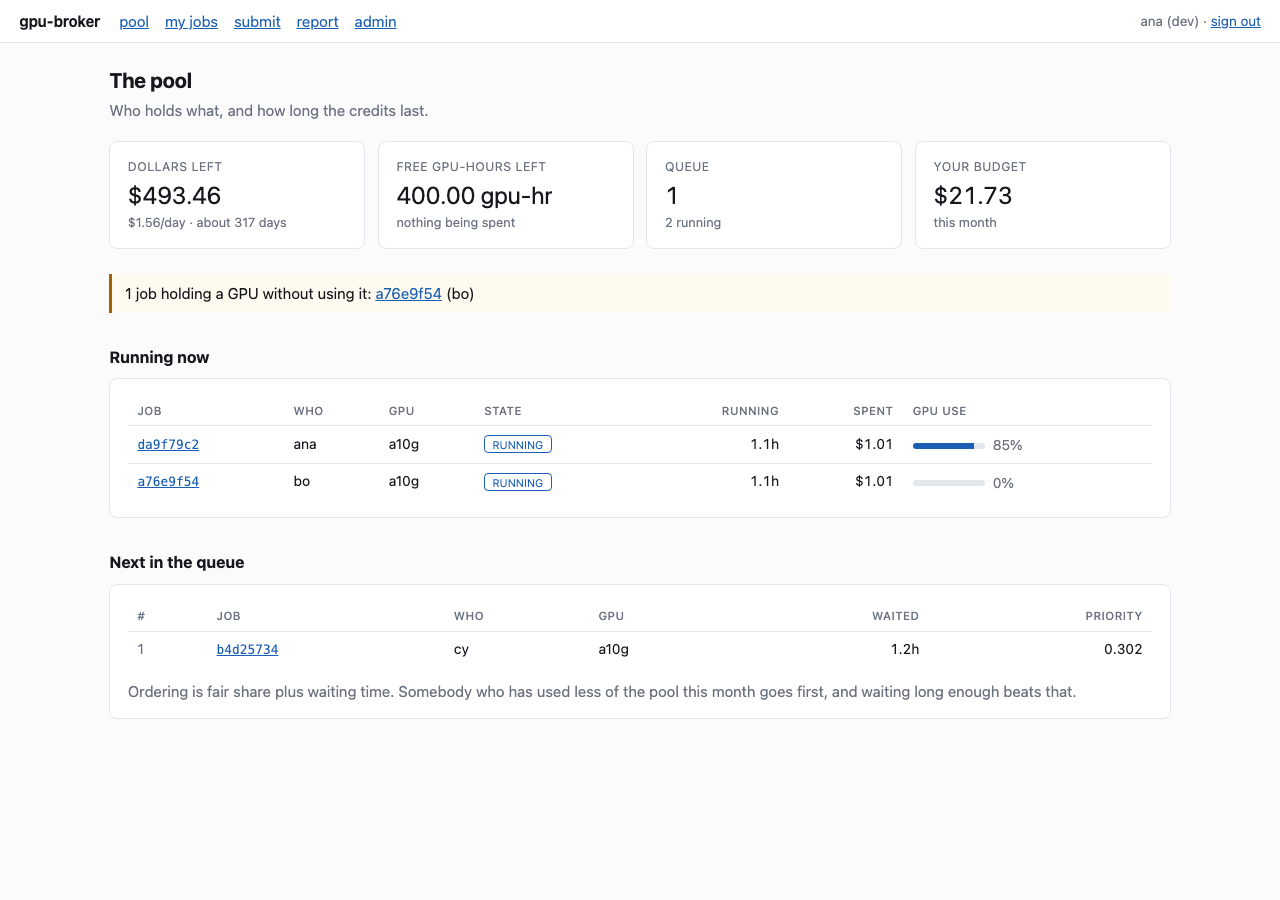
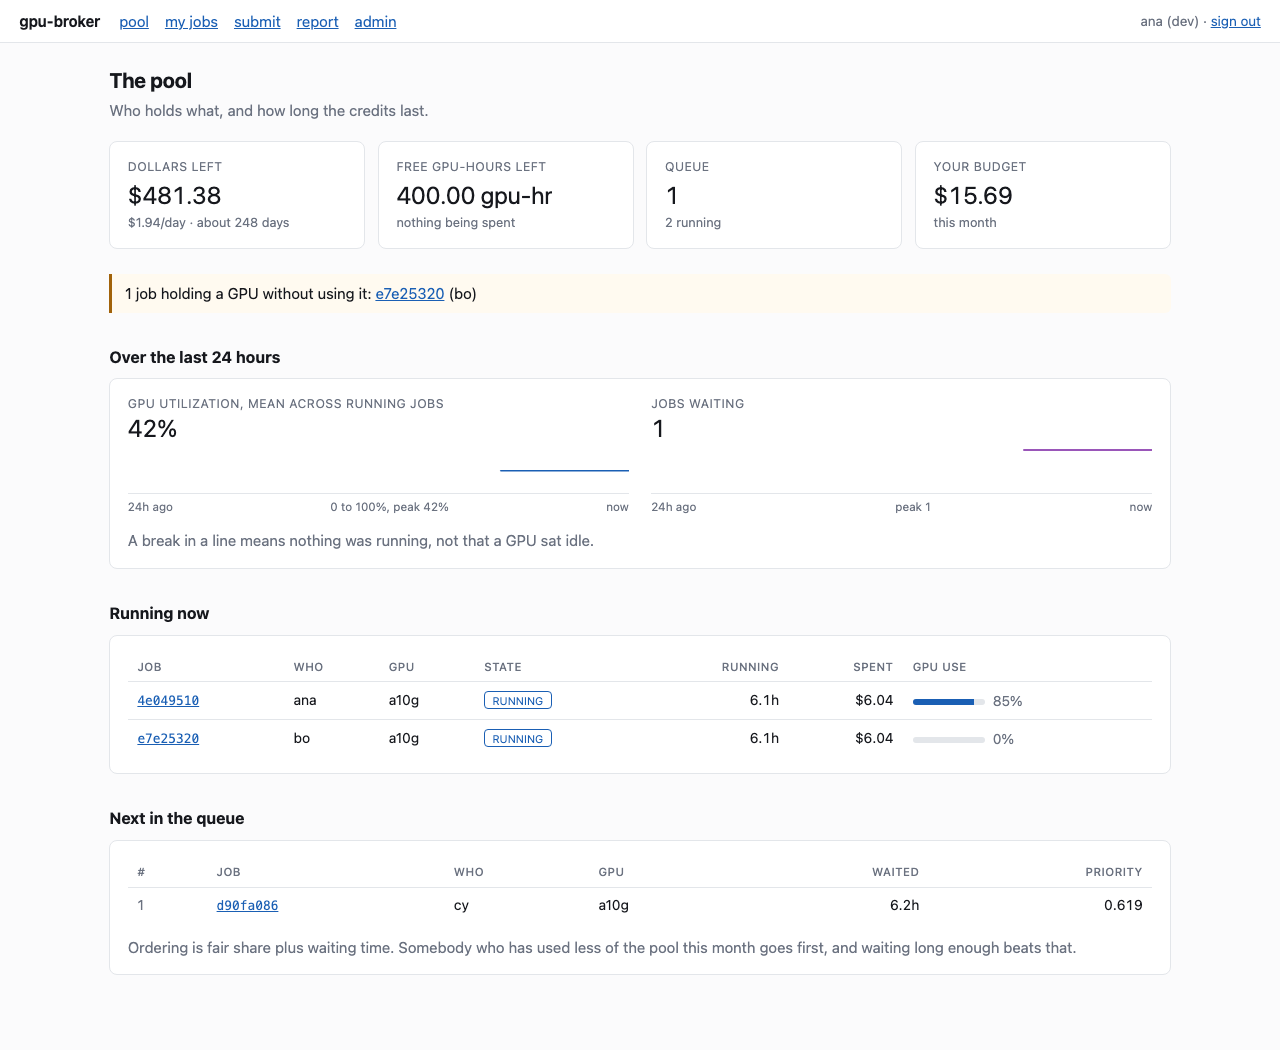
Chart pool utilization over time, and say who fair share costs
Two things the build prompt asked for that were missing.

The pool dashboard showed utilization only as it is right now. The series were
already being recorded every tick; nothing drew them. Adds a 24-hour view of
mean GPU utilization and queue depth as inline SVG, with the scale labelled so
a queue depth of one does not read as full.

A gap in the record renders as a gap rather than as zero: a pool that was
switched off did not have a GPU sitting idle, and drawing that as a floor would
be a different and wrong claim. An isolated sample is drawn as a dot, because a
pool used twice a day has every sample between two gaps and a polyline needs
two points -- the honest-looking result would be a blank panel.

The README now says that fair share is worse for you if you are the only heavy
user: it buys a fairness nobody needed in exchange for queue latency. gpu report
already printed that user's cumulative wait; the trade should be visible before
somebody adopts this, not only after.

diff --git a/gpu_broker/web/templates/dashboard.html b/gpu_broker/web/templates/dashboard.html
@@ -43,6 +43,31 @@
 </div>
 {% endif %}
 
+{% if utilization_series | reject("none") | list | length > 1 %}
+<h2>Over the last {{ series_hours }} hours</h2>
+<div class="panel">
+  <div class="series">
+    <div>
+      <div class="k">gpu utilization, mean across running jobs</div>
+      {% set u = utilization_series | reject("none") | list %}
+      <div class="v">{{ "%.0f"|format(u[-1]) }}%</div>
+      <div class="spark">{{ utilization_series | sparkline(38, 100) | safe }}</div>
+      <div class="axis"><span>24h ago</span><span>0 to 100%, peak {{ "%.0f"|format(u | max) }}%</span><span>now</span></div>
+    </div>
+    <div>
+      <div class="k">jobs waiting</div>
+      {% set q = queue_series | reject("none") | list %}
+      <div class="v">{{ "%.0f"|format(q[-1]) }}</div>
+      <div class="spark queue">{{ queue_series | sparkline(38) | safe }}</div>
+      <div class="axis"><span>24h ago</span><span>peak {{ "%.0f"|format(q | max) }}</span><span>now</span></div>
+    </div>
+  </div>
+  <p class="dim" style="margin:.9rem 0 0">
+    A break in a line means nothing was running, not that a GPU sat idle.
+  </p>
+</div>
+{% endif %}
+
 <h2>Running now</h2>
 <div class="panel">
 {% if holders %}

diff --git a/gpu_broker/web/static/app.css b/gpu_broker/web/static/app.css
@@ -35,6 +35,13 @@ code, .mono { font-family: ui-monospace, SFMono-Regular, Menlo, monospace; font-
 .s-FAILED, .s-REFUSED, .s-RECLAIMED { color: var(--bad); border-color: var(--bad); }
 .s-CANCELLED, .s-PREEMPTED { color: var(--warn); border-color: var(--warn); }
 .s-QUEUED { color: var(--dim); border-color: var(--line); }
+.series { display: grid; grid-template-columns: repeat(auto-fit, minmax(260px, 1fr)); gap: 1.4rem; }
+.series .k { color: var(--dim); font-size: .82em; text-transform: uppercase; letter-spacing: .04em; }
+.series .v { font-size: 1.5rem; font-variant-numeric: tabular-nums; line-height: 1.2; }
+.series .axis { display: flex; justify-content: space-between; color: var(--dim);
+  font-size: .78em; margin-top: .25rem; }
+.spark { color: var(--busy); margin-top: .4rem; border-bottom: 1px solid var(--line); }
+.spark.queue { color: var(--idle); }
 .meter { display: inline-flex; align-items: center; gap: .5rem; white-space: nowrap; }
 .bar { display: inline-block; background: var(--line); border-radius: 3px; height: 6px;
   overflow: hidden; width: 72px; vertical-align: middle; }

diff --git a/gpu_broker/web/app.py b/gpu_broker/web/app.py
@@ -81,6 +81,7 @@ def create_app(
     templates.env.filters["money"] = _money
     templates.env.filters["ago"] = _ago
     templates.env.filters["duration"] = _duration
+    templates.env.filters["sparkline"] = _sparkline
     app.state.templates = templates
     app.mount("/static", StaticFiles(directory=str(HERE / "static")), name="static")
 
@@ -200,9 +201,15 @@ def create_app(
                   broker: Broker = Depends(broker_for)) -> Any:
         now = broker.clock.now()
         holders = broker.who()
+        since = now - dt.timedelta(hours=24)
+        from ..metrics import QUEUE_DEPTH, UTILIZATION
+
         return page(
             request,
             "dashboard.html",
+            utilization_series=broker.metrics.bucketed(UTILIZATION, since, now),
+            queue_series=broker.metrics.bucketed(QUEUE_DEPTH, since, now),
+            series_hours=24,
             holders=[
                 {
                     "job": job,
@@ -503,6 +510,56 @@ def _recent_utilization(broker: Broker, job_id: str) -> float | None:
 def _peak_utilization(broker: Broker, job_id: str) -> float | None:
     samples = broker.store.samples_for(job_id, limit=500)
     return max((sample.gpu_percent for sample in samples), default=None)
+
+
+def _sparkline(values: list[float | None], height: int = 34, ceiling: float | None = None) -> str:
+    """An inline SVG polyline. No chart library, no build step.
+
+    Gaps stay gaps: a run of `None` breaks the line rather than dropping it to
+    zero, because "nothing was running" and "a GPU sat idle" are different
+    claims and only one of them is a problem.
+    """
+    points = [v for v in values if v is not None]
+    if not points:
+        return ""
+    top = ceiling if ceiling is not None else max(max(points), 1.0)
+    width = max(len(values) * 6, 60)
+    step = width / max(len(values) - 1, 1)
+
+    segments: list[list[str]] = []
+    current: list[str] = []
+    for index, value in enumerate(values):
+        if value is None:
+            if current:
+                segments.append(current)
+            current = []
+            continue
+        x = index * step
+        y = height - (min(value, top) / top) * (height - 2) - 1
+        current.append(f"{x:.1f},{y:.1f}")
+    if current:
+        segments.append(current)
+    if not segments:
+        return ""
+
+    # A run of one is drawn as a dot, not dropped. A pool that is used twice a
+    # day has every sample isolated between gaps, and a polyline needs two
+    # points -- so the honest-looking chart would be a blank panel.
+    marks = []
+    for segment in segments:
+        if len(segment) > 1:
+            marks.append(
+                f'<polyline points="{" ".join(segment)}" fill="none" '
+                f'stroke="currentColor" stroke-width="1.5" '
+                f'stroke-linejoin="round" stroke-linecap="round"/>'
+            )
+        else:
+            x, y = segment[0].split(",")
+            marks.append(f'<circle cx="{x}" cy="{y}" r="1.6" fill="currentColor"/>')
+    return (
+        f'<svg viewBox="0 0 {width:.0f} {height}" preserveAspectRatio="none" '
+        f'width="100%" height="{height}" role="img">{"".join(marks)}</svg>'
+    )
 
 
 def _money(value, currency=Currency.USD) -> str:

diff --git a/tests/test_metrics.py b/tests/test_metrics.py
@@ -298,3 +298,72 @@ def test_a_stored_baseline_appears_in_the_report(broker, users):
 
 def test_no_baseline_says_how_to_get_one(broker, users):
     assert "put the numbers in by hand" in markdown(broker.report())
+
+
+# ---------------------------------------------------------------- bucketing
+
+
+def test_a_series_buckets_into_equal_slices(broker, users, clock):
+
+    start = clock.now()
+    for _ in range(12):
+        broker.tick()
+        clock.advance(minutes=10)
+
+    buckets = broker.metrics.bucketed(QUEUE_DEPTH, start, clock.now(), buckets=6)
+    assert len(buckets) == 6
+    assert all(b is not None for b in buckets)
+
+
+def test_a_gap_in_the_record_stays_a_gap(broker, users, clock):
+    """`None`, not zero. A pool that was switched off did not have a GPU sitting
+    idle -- nothing was running at all, and drawing that as a floor would be a
+    different and wrong claim."""
+
+    start = clock.now()
+    broker.tick()
+    clock.advance(hours=6)          # the broker was down
+    broker.tick()
+
+    buckets = broker.metrics.bucketed(QUEUE_DEPTH, start, clock.now(), buckets=6)
+    assert buckets[0] is not None
+    assert any(b is None for b in buckets), "a six-hour outage rendered as data"
+
+
+def test_bucketing_an_empty_window_is_not_a_crash(broker, users, clock):
+    now = clock.now()
+    assert broker.metrics.bucketed(QUEUE_DEPTH, now, now) == []
+
+
+def test_the_sparkline_breaks_across_a_gap(broker):
+    from gpu_broker.web.app import _sparkline
+
+    svg = _sparkline([10.0, 20.0, None, None, 40.0, 50.0])
+    assert svg.count("<polyline") == 2, "drew through a gap"
+
+
+def test_an_isolated_sample_is_drawn_as_a_dot(broker):
+    """A pool used twice a day has every sample isolated between gaps. A
+    polyline needs two points, so without this the panel renders blank and
+    looks like no data rather than sparse data."""
+    from gpu_broker.web.app import _sparkline
+
+    svg = _sparkline([None, 40.0, None, 60.0, None])
+    assert svg.count("<circle") == 2
+    assert "<polyline" not in svg
+
+
+def test_a_sparkline_with_nothing_to_draw_renders_nothing(broker):
+    from gpu_broker.web.app import _sparkline
+
+    assert _sparkline([]) == ""
+    assert _sparkline([None, None]) == ""
+
+
+def test_the_sparkline_respects_a_ceiling(broker):
+    """Utilization is drawn against 0-100, not against its own maximum, or a
+    pool that peaked at 3% would look busy."""
+    from gpu_broker.web.app import _sparkline
+
+    low = _sparkline([1.0, 2.0, 3.0], height=100, ceiling=100.0)
+    assert "99" in low or "98" in low, "a 3% peak was drawn near the top"

diff --git a/tests/test_web.py b/tests/test_web.py
@@ -535,3 +535,39 @@ def test_the_report_page_shows_where_it_loses(client, rig):
     assert "What actually happened" in body
     assert "Where it loses" in body
     assert "Not measured here" in body
+
+
+def test_the_dashboard_charts_utilization_over_time(client, rig):
+    """The build prompt asks the pool dashboard for utilization *over time*, not
+    just right now."""
+    import datetime as dt
+
+    from gpu_broker.db.connection import transaction
+    from gpu_broker.metrics import QUEUE_DEPTH, UTILIZATION
+
+    # Points spread across the window. A real deployment ticks every 30s; six
+    # ticks inside one millisecond land in one bucket and draw no line.
+    with daemon(rig) as broker:
+        broker.add_user("ana")
+        now = broker.clock.now()
+        with transaction(broker.store.conn) as conn:
+            conn.executemany(
+                "INSERT INTO metrics (name, at, value, labels) VALUES (?, ?, ?, '')",
+                [
+                    (name, (now - dt.timedelta(minutes=m)).isoformat(timespec="microseconds"), value)
+                    for m in range(30, 720, 30)
+                    for name, value in ((UTILIZATION, 40.0 + m / 30), (QUEUE_DEPTH, float(m % 5)))
+                ],
+            )
+
+    sign_in(client, rig)
+    body = client.get("/").text
+    assert "Over the last 24 hours" in body
+    assert "<polyline" in body, "a dense series rendered no line"
+    assert "gpu utilization, mean across running jobs" in body
+
+
+def test_the_dashboard_omits_the_chart_when_there_is_nothing_to_draw(client, rig):
+    """Rather than an empty axis implying the pool sat at zero."""
+    sign_in(client, rig)
+    assert "Over the last 24 hours" not in client.get("/").text

diff --git a/gpu_broker/metrics.py b/gpu_broker/metrics.py
@@ -115,6 +115,30 @@ class Metrics:
         points = self.series(name, since=since)
         return max((p.value for p in points), default=None)
 
+    def bucketed(
+        self, name: str, since: dt.datetime, until: dt.datetime, buckets: int = 48
+    ) -> list[float | None]:
+        """The series averaged into equal time buckets, oldest first.
+
+        `None` for a bucket with no samples, so a gap in the record renders as a
+        gap rather than as zero. A pool that was switched off for six hours did
+        not have a GPU sitting at 0%; nothing was running at all, and drawing
+        that as a floor would be a different and wrong claim.
+        """
+        span = (until - since).total_seconds()
+        if span <= 0 or buckets < 1:
+            return []
+        sums = [0.0] * buckets
+        counts = [0] * buckets
+        for point in self.series(name, since=since):
+            index = int((point.at - since).total_seconds() / span * buckets)
+            index = min(max(index, 0), buckets - 1)
+            sums[index] += point.value
+            counts[index] += 1
+        return [
+            (sums[i] / counts[i]) if counts[i] else None for i in range(buckets)
+        ]
+
     def prune(self, older_than: dt.datetime) -> int:
         """Series older than the retention window. Nothing calls this on a
         schedule; `gpu metrics --prune` does, when somebody decides to."""

diff --git a/docs/_demo_setup.py b/docs/_demo_setup.py
@@ -24,7 +24,7 @@ home.mkdir(parents=True)
 # been waiting since January and an idle window with nothing in it.
 import datetime as _dt
 
-START = _dt.datetime.now(_dt.timezone.utc) - _dt.timedelta(minutes=68)
+START = _dt.datetime.now(_dt.timezone.utc) - _dt.timedelta(hours=6, minutes=8)
 clock = ManualClock(START)
 cfg = load_config(home)
 cloud = FakeBackend("cloud", clock=clock, currency=Currency.USD,
@@ -50,7 +50,7 @@ for who, spent in (("cy", "31.00"), ("bo", "6.00")):
 
 # cy submits first, ana last -- fair share should invert that.
 for who in ("cy", "bo", "ana"):
-    b.submit(user_id=who, command=f"python train.py --user {who}", gpu_type="a10g", hours=3)
+    b.submit(user_id=who, command=f"python train.py --user {who}", gpu_type="a10g", hours=9)
     clock.advance(minutes=2)
 
 # bo's script dies silently right after it starts. This is the failure the
@@ -58,7 +58,9 @@ for who in ("cy", "bo", "ana"):
 b.tick()
 dead = next(j for j in b.store.active_jobs() if j.user_id == "bo")
 cloud.set_utilization(dead.job_id, 0.0)
-for _ in range(60):
+# Six hours at one-minute ticks. Long enough for the dashboard's 24-hour chart
+# to have something to draw, and dense enough for the idle window at the end.
+for _ in range(360):
     clock.advance(minutes=1)
     b.tick()
 

diff --git a/README.md b/README.md
@@ -5,7 +5,7 @@ free tier - with a dollar budget nobody can silently exceed.
 
 [![CI](https://github.com/lgoyal6/gpu-broker/actions/workflows/ci.yml/badge.svg)](https://github.com/lgoyal6/gpu-broker/actions/workflows/ci.yml)
 
-![Fair share putting the heaviest user last, and a job caught holding a GPU an hour after its training script died - with the samples that justify it](docs/demo.gif)
+![Fair share putting the heaviest user last, and a job caught holding a GPU six hours after its training script died - with the samples that justify it](docs/demo.gif)
 
 ## Why this exists
 
@@ -36,7 +36,7 @@ Everything runs against a simulator until you point it at real hardware.
 
 For your club, see **[docs/DEPLOY.md](docs/DEPLOY.md)**.
 
-![The pool dashboard: who holds what, burn rate, days of runway, and a job flagged for holding a GPU without using it](docs/dashboard.png)
+![The pool dashboard: who holds what, burn rate, days of runway, utilization over the last 24 hours, and a job flagged for holding a GPU without using it](docs/dashboard.png)
 
 ## Architecture
 
@@ -164,6 +164,13 @@ tests/              640 tests across 30 files
 
 ## Limitations (deliberate)
 
+- **If you are the only heavy user, this is worse for you.** Fair share exists to
+  stop one person absorbing the pool, which means that when there is only one
+  person with real work, the broker adds queue latency and startup overhead in
+  exchange for a fairness nobody needed. `gpu report` prints your total wait in
+  hours next to the good numbers so the trade is visible rather than assumed.
+  Reverse `placement_order` or raise your own budget if the answer is that you
+  should just launch instances yourself.
 - **Nothing here has run on real hardware.** No real EC2 instance, no real
   A6000, no real spot interruption, no real `docker build`. The doubles are
   good; the first deploy will still find things.

diff --git a/docs/DESIGN.md b/docs/DESIGN.md
@@ -43,6 +43,12 @@ without one, two ticks could dispatch same-priority jobs in different orders and
 `gpu queue --why` prints both terms for every job. If you are behind, the answer
 is a row of numbers rather than a shrug.
 
+**Where this loses.** Fair share is a cost paid by whoever would otherwise have
+had the pool to themselves. With one active user it is pure overhead: queue
+latency and a poll interval bought in exchange for a fairness nobody needed.
+`gpu report` prints that user's cumulative wait by name, so the trade shows up
+next to the numbers that flatter the design rather than only in the ones that do.
+
 ## Two currencies
 
 Cloud capacity costs dollars. The lab A6000 costs nothing and is scheduled in
